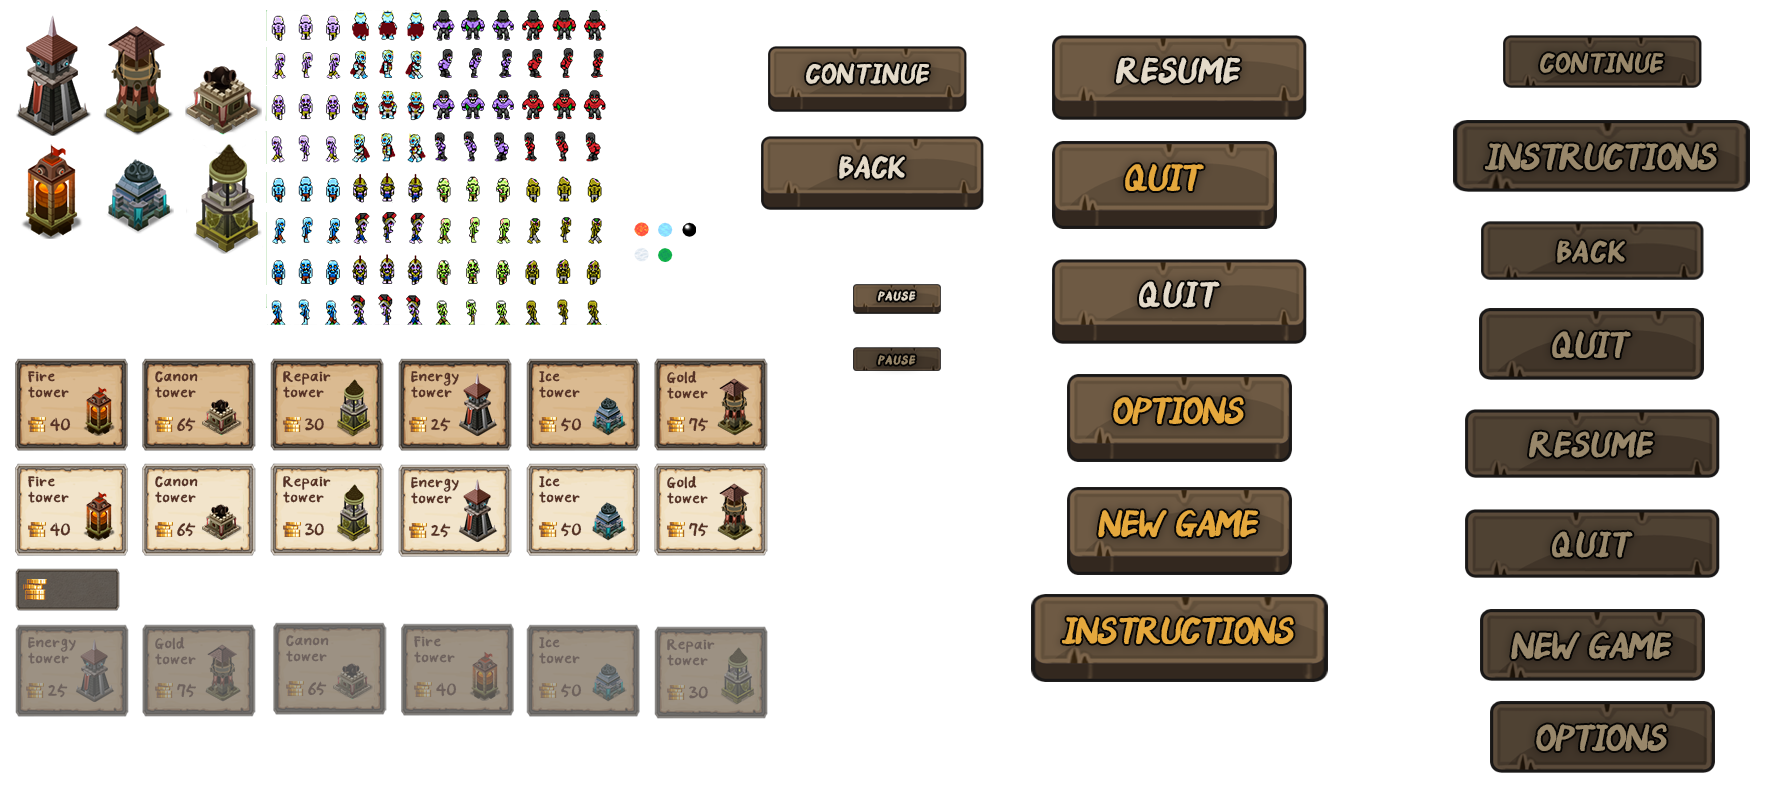
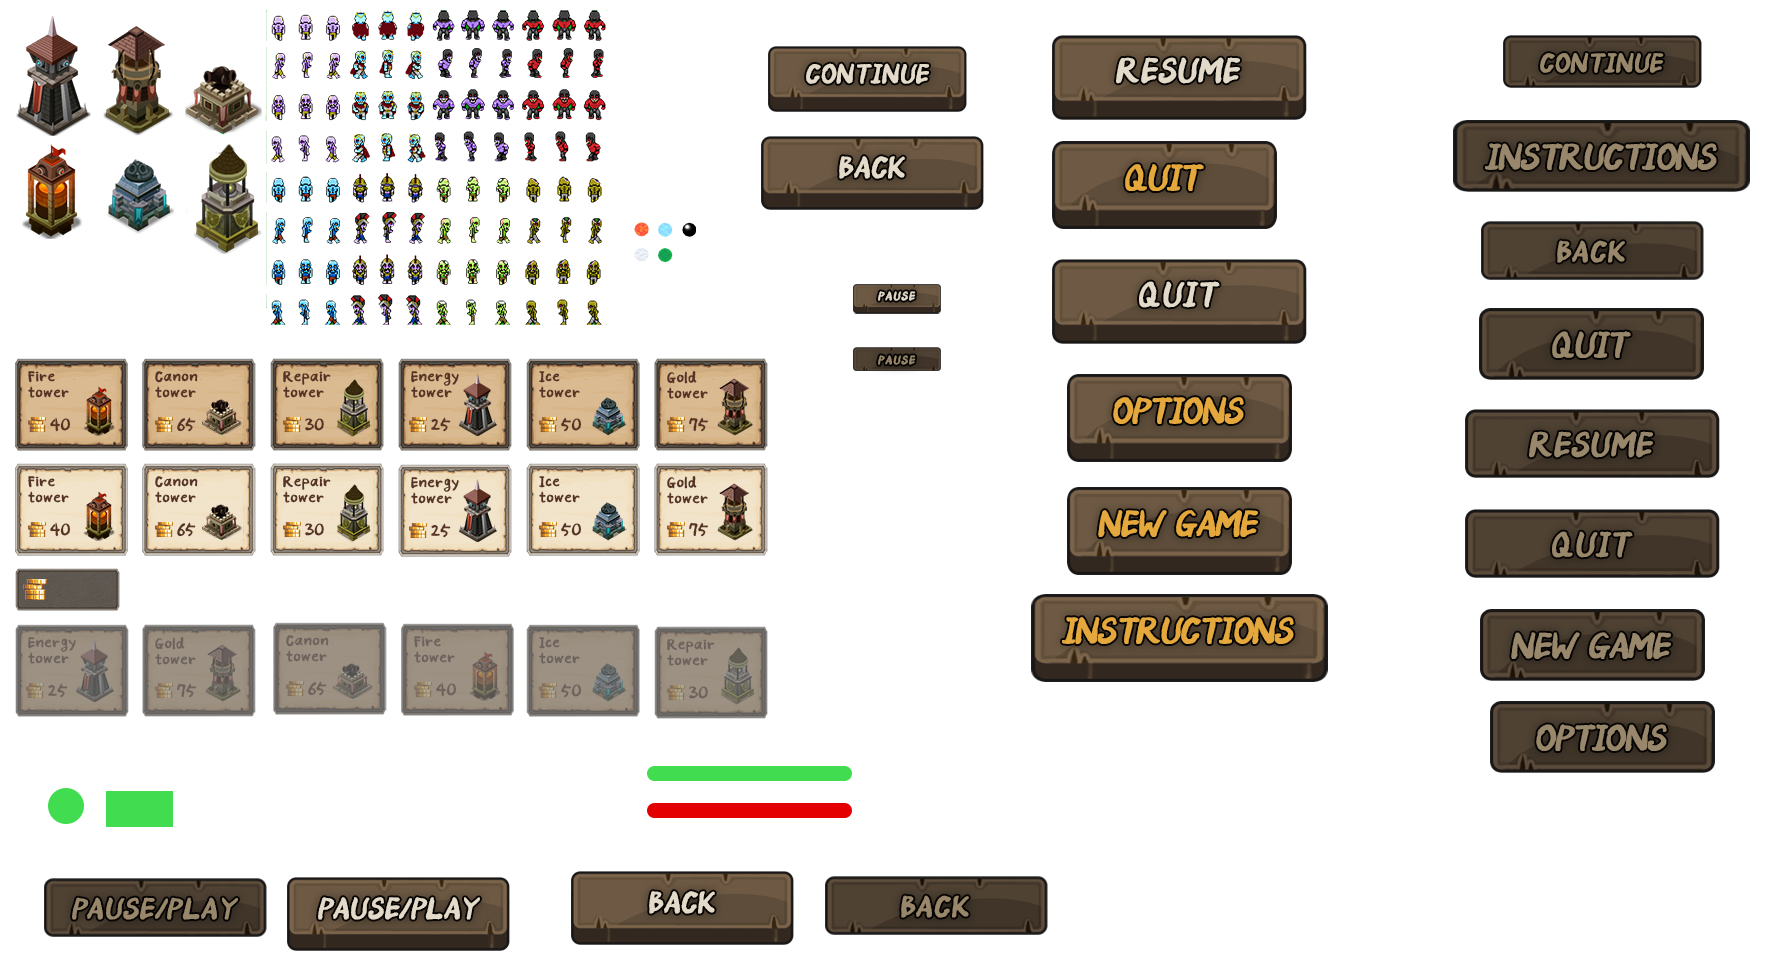
srcRects and MoverRects updated, screens added

diff --git a/srcRects and MoverRects.cpp b/srcRects and MoverRects.cpp
@@ -332,4 +332,102 @@
 // moverRect = {649,396,88,29};
 
 
+//--------------------------------------------------
 
+//Number sprites------
+
+//0
+// srcRect = {254,795,16,22};
+
+//1
+// srcRect = {290,794,5,24};
+
+//2
+// srcRect = {315,796,15,20};
+
+//3
+// srcRect = {350,795,15,22};
+
+//4
+// srcRect = {385,794,17,24};
+
+//5
+// srcRect = {422,794,17,24};
+
+//6
+// srcRect = {459,794,14,24};
+
+//7
+// srcRect = {492,794,15,24};
+
+//8
+// srcRect = {527,794,15,24};
+
+//9
+// srcRect = {562,794,14,24};
+
+
+//First number
+// moverRect = {};
+
+
+//second number
+// moverRect = {};
+
+
+//third number
+// moverRect = {};
+
+//--------------------
+//Loading bar circle
+// srcRect = {48,788,36,30};
+// moverRect = {};
+
+
+//loading bar rectange
+// srcRect = {106,791,67,36};
+// moverRect = {};
+
+
+//-------------------
+//HP Bar Green
+// srcRect = {647,766,205,15};
+// moverRect = {};
+
+//HP Bar Red
+// srcRect = {647,803,205,15};
+// moverRect = {};
+
+
+
+//-------------------------------
+//Options screen
+
+//Pause/Play Music
+// srcRect = {287,877,223,74};
+// moverRect = {};
+
+
+//Pause/Play Music PRESSED
+// srcRect = {44,878,223,59};
+// moverRect = {};
+
+
+//Pause Play SFX
+// srcRect = {287,877,223,74};
+// moverRect = {};
+
+
+//Pause Play SFX PRESSED
+// srcRect = {44,878,223,59};
+// moverRect = {};
+
+
+//Back 
+// srcRect = {571,871,223,74};
+// moverRect = {};
+
+
+//Back PRESSED
+// srcRect = {825,876,223,59};
+// moverRect = {};
